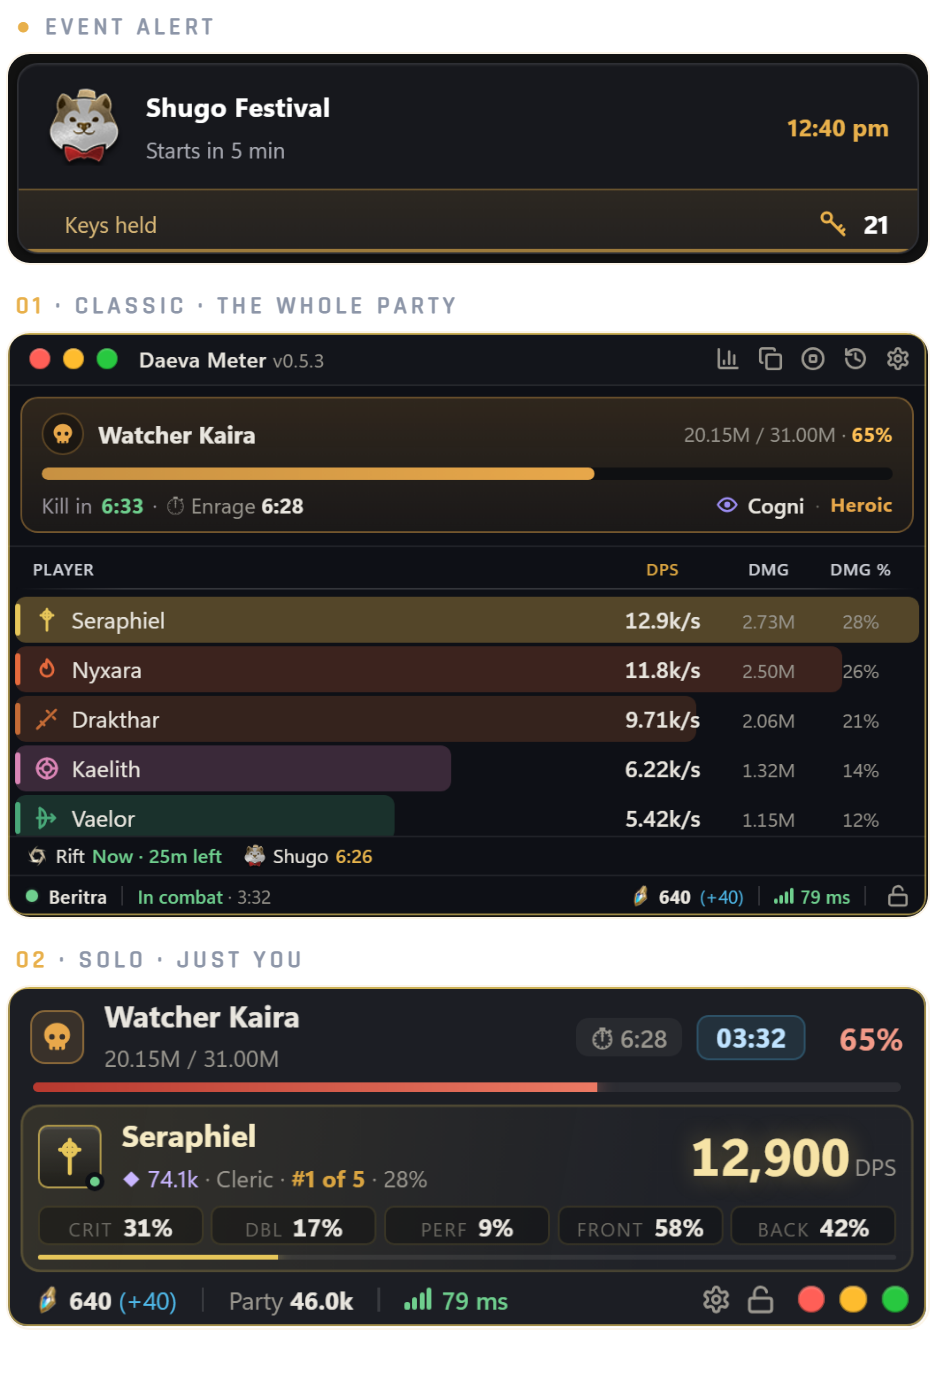
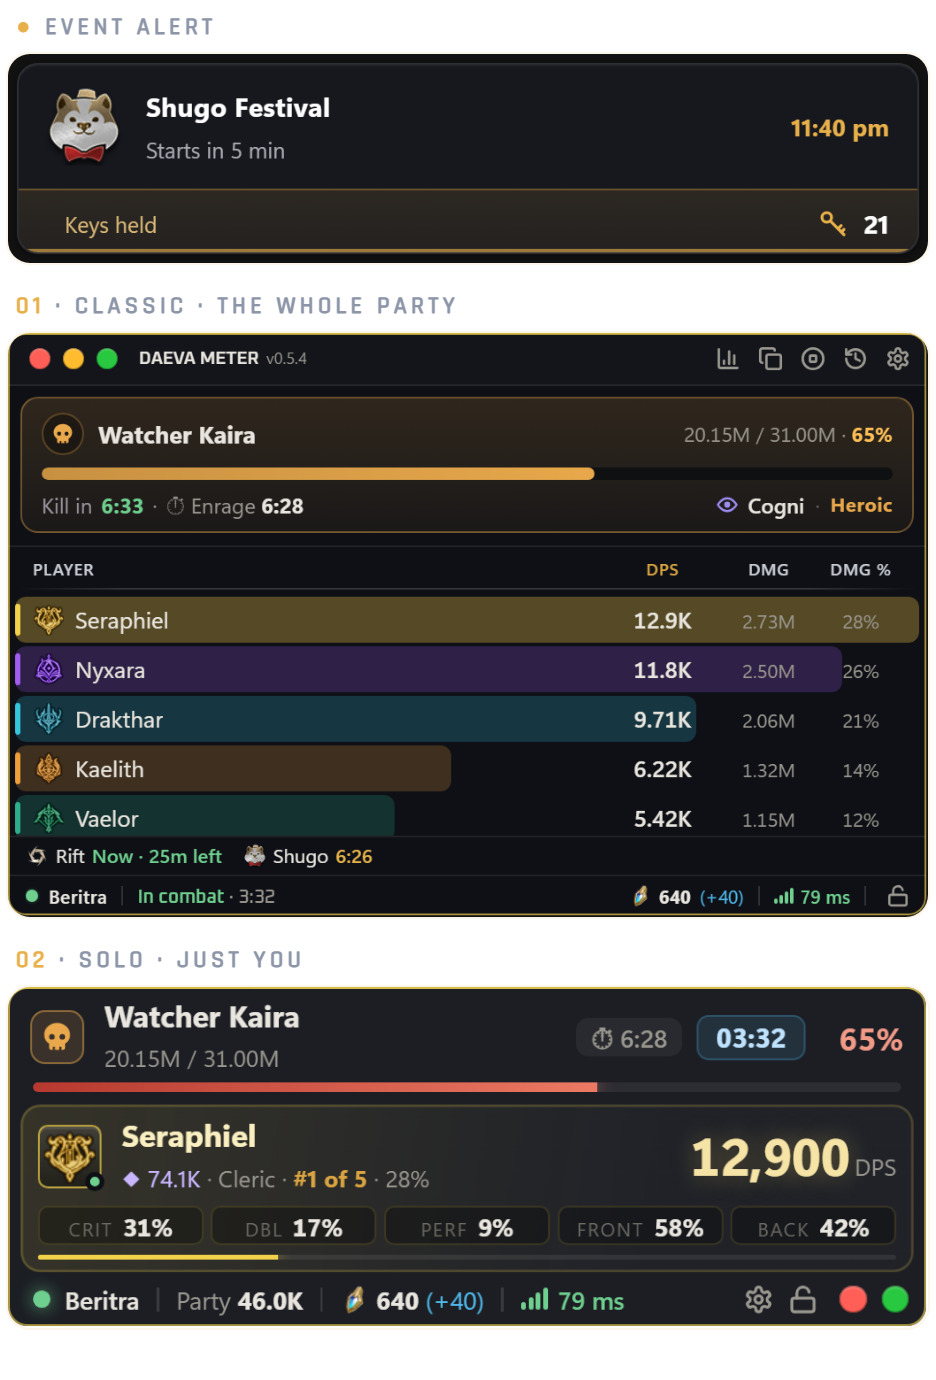
Version 1.11.1: Daeva Meter 0.5.4 pictures

diff --git a/source/src/version.ts b/source/src/version.ts
@@ -3,7 +3,7 @@
  * Bump it with each release (new features: 1.4.0, fixes only: 1.3.1), in
  * step with package.json and CHANGELOG.md; a test checks they agree.
  */
-export const DAEVA_VERSION = "1.11.0";
+export const DAEVA_VERSION = "1.11.1";
 export const DAEVA_NAME = `Daeva v${DAEVA_VERSION}`;
 
 /** The maker's mark, at the end of every card's footer. */

diff --git a/CHANGELOG.md b/CHANGELOG.md
@@ -4,6 +4,10 @@ Daeva, the AION 2 Discord bot behind aion2.bajubesi.org. Versions follow
 the footer on every card: new features raise the middle number (1.4.0),
 fixes only raise the last (1.3.1).
 
+## 1.11.1 · 26 October 2026
+
+- **Daeva Meter 0.5.4 pictures:** the website and the Discord release post show the meter's new look (new title, class icons, numbers with a capital K).
+
 ## 1.11.0 · 26 October 2026
 
 - **New look for the daily DPS recap:** the card is titled "Daeva Meter · Aion 2 · Daily DPS Recap", ranks 4 to 10 get round gold-on-navy number badges (ranks 1 to 3 keep their medals), the target sits on a small line under each player, and "Top 10" is a proper heading.
